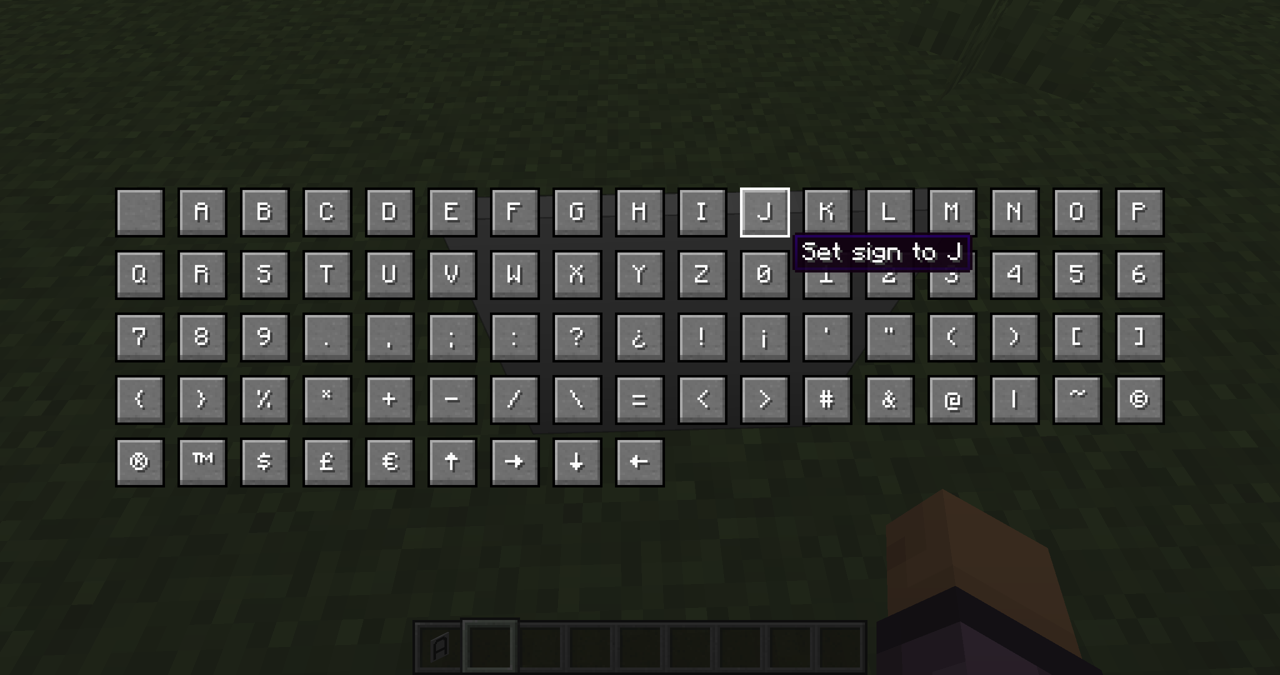
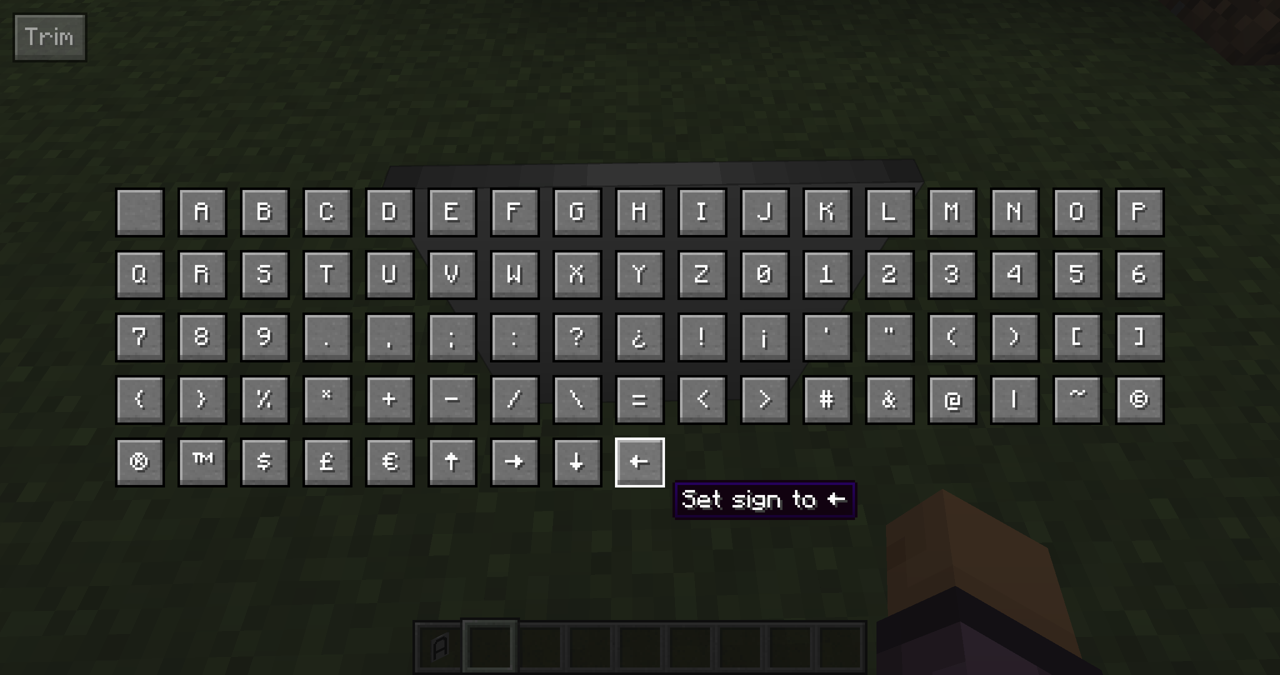
Updated selection screen screenshot and readme

diff --git a/README.md b/README.md
@@ -30,7 +30,7 @@ To make signs, use an iron block in a stonecutter. This will produce 16 signs.
 
 ![How to make sign](screenshots/making.png)
 
-Place the sign, then right-click it and select the character it should display.
+Place the sign, then right-click it and select the character it should display. You can also enable/disable the trim here.
 
 ![How to select character](screenshots/selection.png)
 
